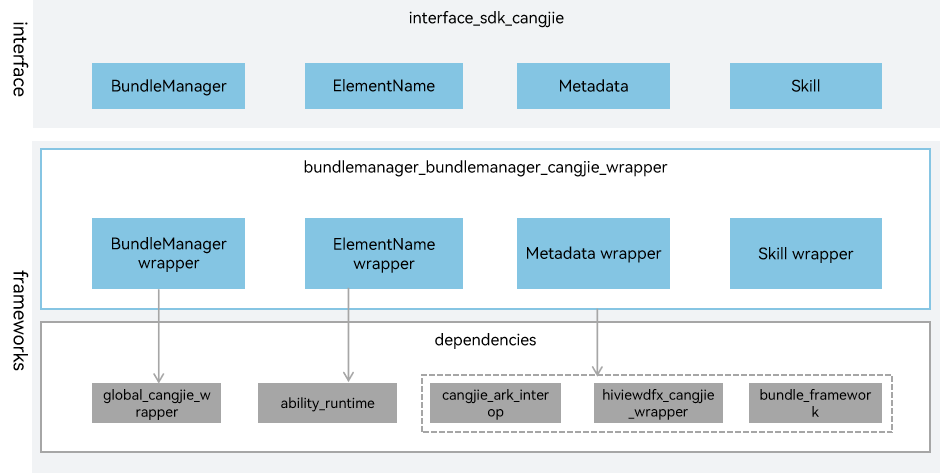
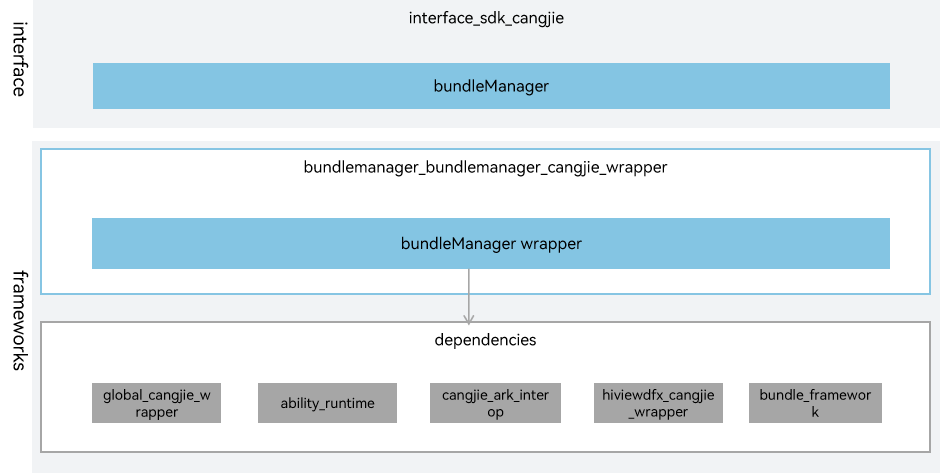
fix_readme

diff --git a/README_zh.md b/README_zh.md
@@ -14,17 +14,19 @@
 
 接口层：
 
-- 应用程序包管理模块：面向开发者提供的用于应用信息查询的API能力。提供UIAbility组件信息、ExtensionAbility组件信息的查询能力，返回json格式字符串。提供查询给定的链接是否可以打开的能力。
-- ElementName信息: 面向开发者提供的ElementName类的定义。包含设备ID，应用Bundle名称等信息。
-- 元数据对象: 面向开发者提供的元数据对象的定义。包含元数据名称、元数据值和元数据资源。
-- Skill标签对象：面向开发者提供的Skill标签对象的定义。包含Skill接收的actions、entities、uris、domainVerify集合。
+- 应用程序包管理模块：包含面向开发者提供的用于应用信息查询的API能力；应用组件结构体、元数据对象和Skill标签对象的定义。
+  - 应用信息查询能力：面向开发者提供的用于应用信息查询的API能力。提供UIAbility组件信息、ExtensionAbility组件信息的查询能力，返回json格式字符串。提供查询给定的链接是否可以打开的能力。
+  - 应用组件结构体: 面向开发者提供的应用组件结构体的定义。包含bundleName、moduleName和abilityName等。通常用于组件启动回调函数中。
+  - 元数据对象: 面向开发者提供的元数据对象的定义。包含元数据名称、元数据值和元数据资源。可通过BundleInfo获取。
+  - Skill标签对象：面向开发者提供的Skill标签对象的定义。包含Skill接收的actions、entities、uris、domainVerify集合。可通过BundleInfo获取。
 
 框架层：
 
-- 应用程序包管理模块封装：仓颉应用信息查询能力封装。通过BundleManager类实现仓颉的应用信息查询能力。
-- ElementName信息封装：提供仓颉ElementName类的定义。
-- 元数据对象封装：提供仓颉Metadata类的定义。
-- Skill对象封装：提供仓颉Skill类的定义。
+- 应用程序包管理模块封装：为应用信息查询能力封装、ElementName信息封装、元数据对象封装和Skill对象封装。
+  - 应用信息查询能力封装：仓颉应用信息查询能力封装。通过BundleManager类实现仓颉的应用信息查询能力。
+  - 应用组件结构体封装：通过提供ElementName类来提供应用组件结构体。
+  - 元数据对象封装：提供仓颉Metadata类的定义。
+  - Skill对象封装：提供仓颉Skill类的定义。
 
 架构图中的依赖部件引入说明：
 
@@ -53,11 +55,10 @@ foundation/bundlemanager/bundlemanager_cangjie_wrapper
 
 包管理仓颉接口提供以下功能，开发者可以根据使用诉求使用：
 
-  - 提供当前应用包信息的查询能力。
-  - 提供自身相应配置文件的json格式字符串的获取能力。
-  - 提供给定的链接是否可以打开的查询能力。
-  - 提供ElementName信息、元数据对象和Skill标签对象的定义。
-
+  - 提供当前应用包信息的查询能力。相关示例请参见请参见[获取当前应用包信息](https://gitcode.com/openharmony-sig/arkcompiler_cangjie_ark_interop/blob/master/doc/Dev_Guide/source_zh_cn/cj-start/basic-knowledge/common_problem_of_application.md)。
+  - 提供自身相应配置文件的json格式字符串的获取能力。相关示例请参见请参见[获取自身相应配置文件信息](https://gitcode.com/openharmony-sig/arkcompiler_cangjie_ark_interop/blob/master/doc/API_Reference/source_zh_cn/apis/AbilityKit/cj-apis-bundle_manager.md#static-func-getprofilebyabilitystring-string-string)。
+  - 提供给定的链接是否可以打开的查询能力。相关示例请参见请参见[查询链接是否可以打开](https://gitcode.com/openharmony-sig/arkcompiler_cangjie_ark_interop/blob/master/doc/API_Reference/source_zh_cn/apis/AbilityKit/cj-apis-bundle_manager.md#static-func-canopenlinkstring)。
+  - 提供应用组件结构体、元数据对象和Skill标签对象的定义。
 
 包管理相关API请参见[仓颉包管理API文档](https://gitcode.com/openharmony-sig/arkcompiler_cangjie_ark_interop/blob/master/doc/API_Reference/source_zh_cn/apis/AbilityKit/cj-apis-bundle_manager.md)。
 
@@ -65,8 +66,8 @@ foundation/bundlemanager/bundlemanager_cangjie_wrapper
 
 与ArkTS提供的API能力相比，暂不支持以下功能：
 
-  - 暂不支持获取其他应用包的信息。
-  - 暂不支持根据给定的uid获取对应应用的包名字能力
+  - 暂不支持获取其他应用包的BundleInfo信息。
+  - 暂不支持根据给定的uid获取对应应用的bundleName的能力
 
 ## 参与贡献
 

diff --git a/README.md b/README.md
@@ -14,17 +14,19 @@ As shown in the architecture:
 
 interface: Provides APIs for developers.
 
-- BundleManager: Obtains the bundle information. Obtains the JSON string array of the current application's configuration. Checks whether a link can be opened.
-- ElementName: Definition of ElementName. Includes device ID, application Bundle name, and other information.
-- Metadata: Definition of Metadata. Includes metadata name, metadata value, and metadata resources.
-- Skill: Skill object. Includes the collection of actions, entities, uris, and domainVerify that Skill receives.
+- bundleManager:
+  - BundleManager: Obtains the bundle information. Obtains the JSON string array of the current application's configuration. Checks whether a link can be opened.
+  - ElementName: Definition of ElementName. Includes device ID, application Bundle name, and other information.
+  - Metadata: Definition of Metadata. Includes metadata name, metadata value, and metadata resources.
+  - Skill: Skill object. Includes the collection of actions, entities, uris, and domainVerify that Skill receives.
 
 frameworks:
 
-- BundleManager wrapper: Encapsulates the Cangjie application information query capability. The Cangjie application information query capability is implemented through the BundleManager class.
-- ElementName wrapper: Provides the definition of the Cangjie ElementName class.
-- Metadata wrapper: Provides the definition of the Cangjie Metadata class.
-- Skill wrapper: Provides the definition of the Cangjie Skill class.
+- bundleManager wrapper:
+  - BundleManager wrapper: Encapsulates the Cangjie application information query capability. The Cangjie application information query capability is implemented through the BundleManager class.
+  - ElementName wrapper: Provides the definition of the Cangjie ElementName class.
+  - Metadata wrapper: Provides the definition of the Cangjie Metadata class.
+  - Skill wrapper: Provides the definition of the Cangjie Skill class.
 
 Dependency Component Introduction in Architecture:
 
@@ -54,16 +56,10 @@ foundation/bundlemanager/bundlemanager_cangjie_wrapper
 
 The following features are provided:
 
-  - The module provides APIs for obtaining this application information.
-  - Obtains the json string array of the current application's configuration file.
-  - Checks whether a link can be opened.
+  - The module provides APIs for obtaining this application information. Please refer to [getBundleInfoForSelf](https://gitcode.com/openharmony-sig/arkcompiler_cangjie_ark_interop/blob/master/doc/Dev_Guide/source_en/cj-start/basic-knowledge/common_problem_of_application.md).
+  - Obtains the json string array of the current application's configuration file. Please refer to [getProfileByAbility](https://gitcode.com/openharmony-sig/arkcompiler_cangjie_ark_interop/blob/master/doc/API_Reference/source_en/apis/AbilityKit/cj-apis-bundle_manager.md#static-func-getprofilebyabilitystring-string-string).
+  - Checks whether a link can be opened. Please refer to [canOpenLink](https://gitcode.com/openharmony-sig/arkcompiler_cangjie_ark_interop/blob/master/doc/API_Reference/source_en/apis/AbilityKit/cj-apis-bundle_manager.md#static-func-canopenlinkstring).
   - Provides the definition of ElementName, Metadata, and Skill.
-
-
-The following features are not provided yet:
-
-  - Obtain other application information.
-  - Obtaining the package name of a corresponding application based on a given uid.
 
 
 For Bundlemanager-related APIs, please refer to [ohos.bundle.bundle_manager (BundleManager Management)](https://gitcode.com/openharmony-sig/arkcompiler_cangjie_ark_interop/blob/master/doc/API_Reference/source_en/apis/AbilityKit/cj-apis-bundle_manager.md).
